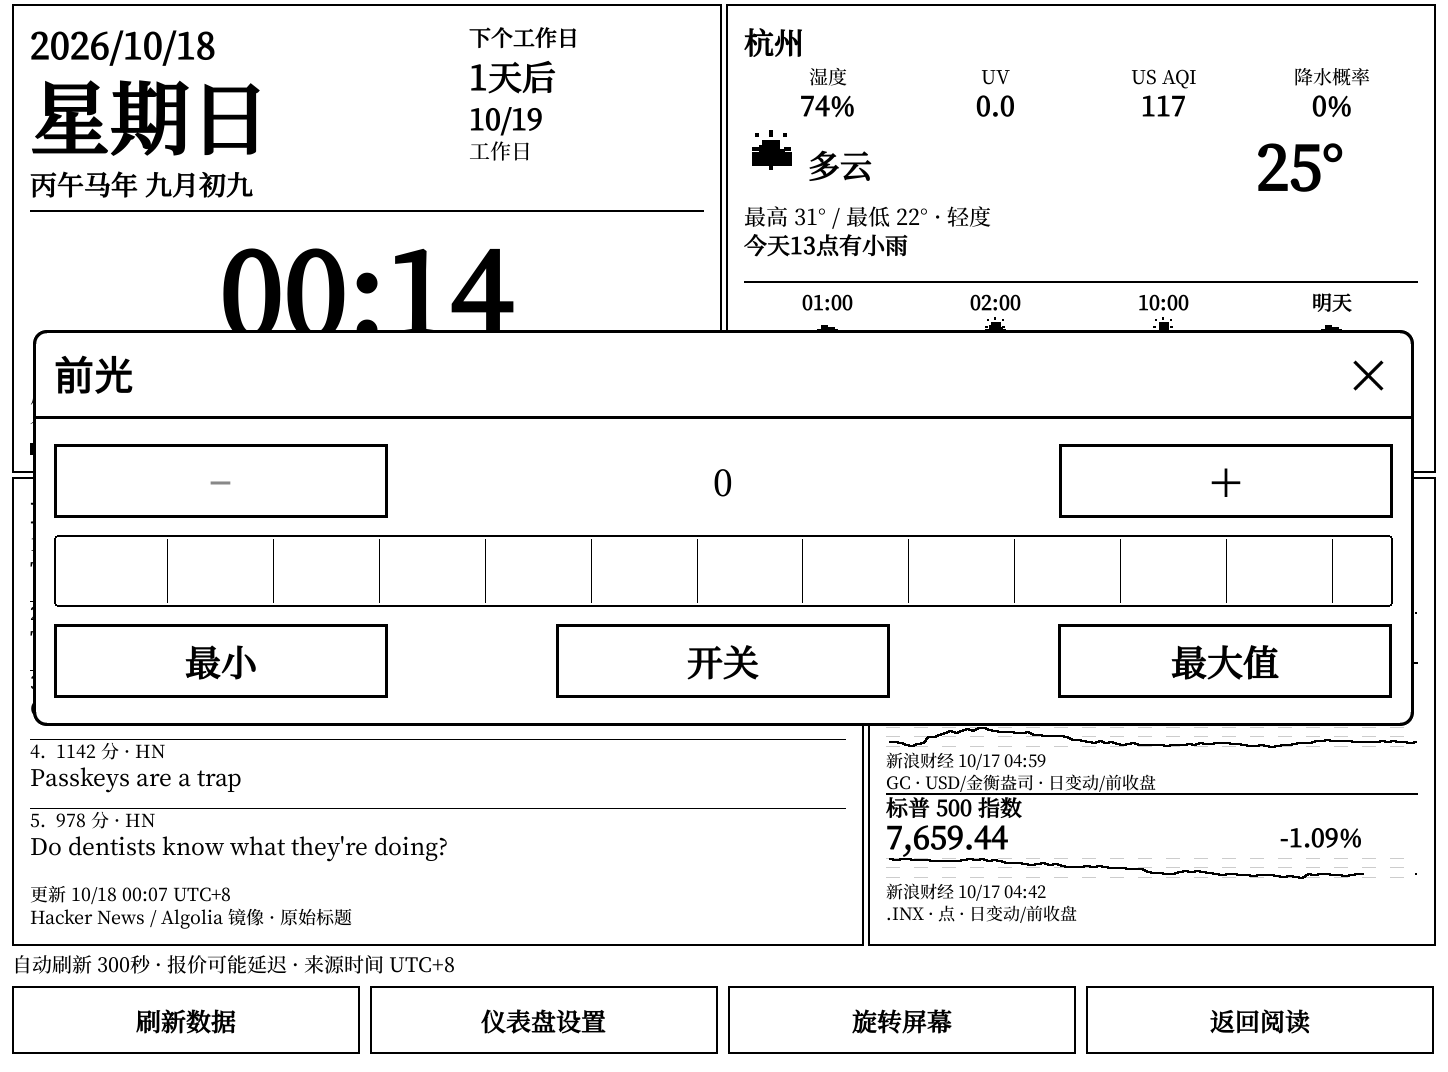
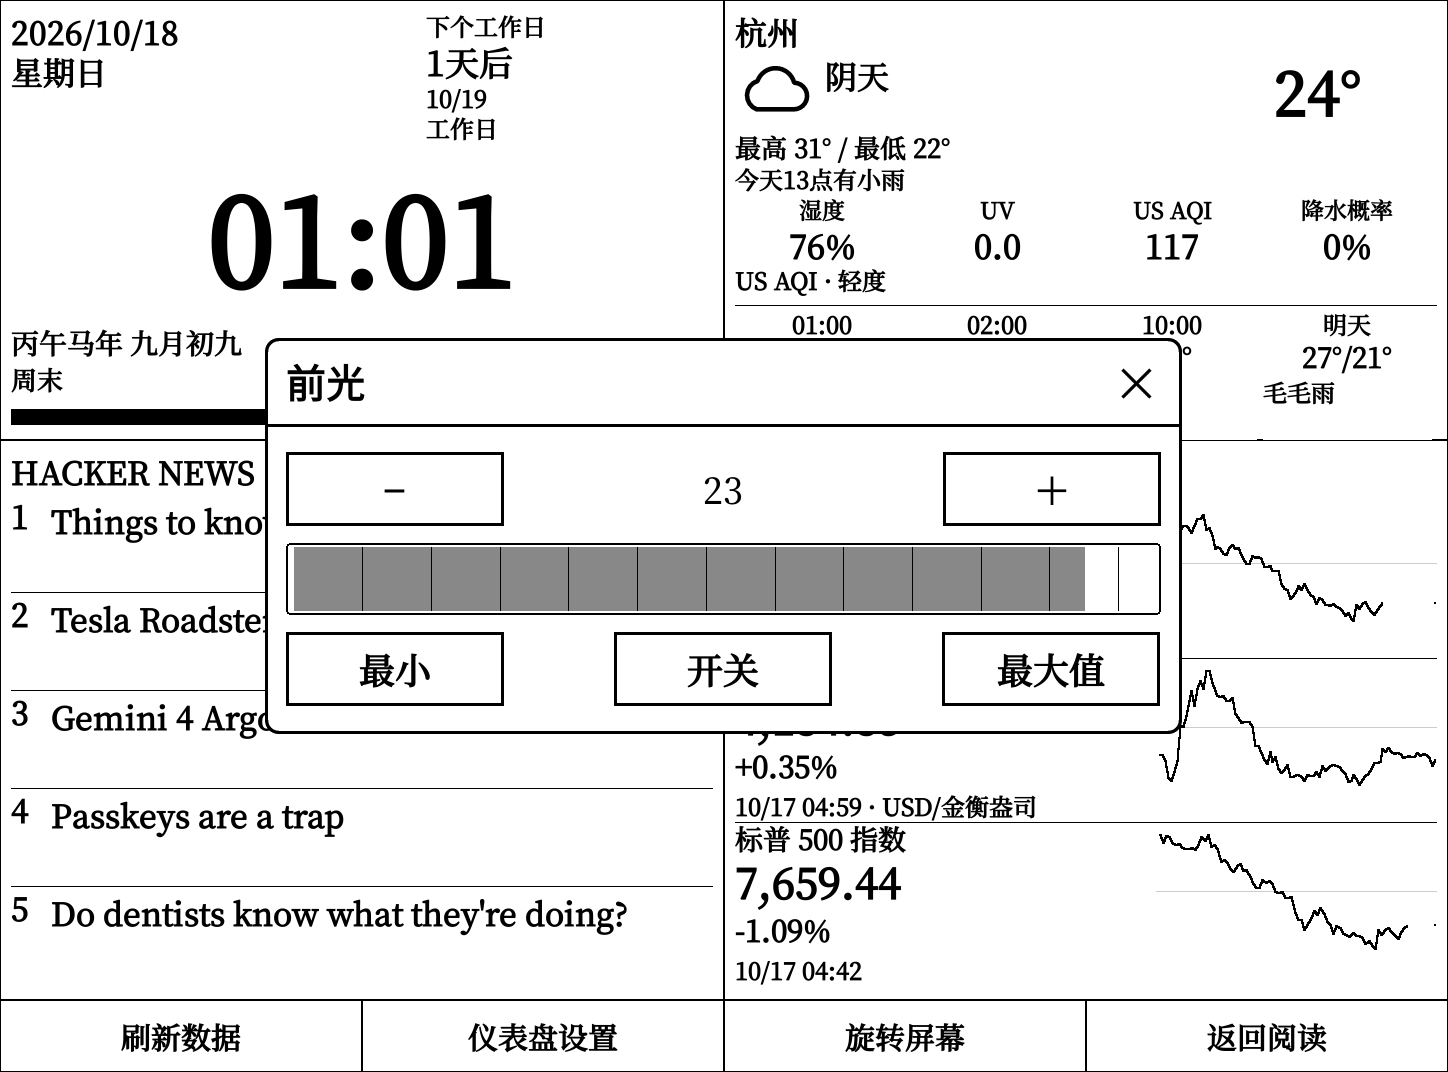
Improve dashboard readability and adaptive layouts

diff --git a/README-en.md b/README-en.md
@@ -9,13 +9,13 @@ A native Kindle dashboard inside KOReader. KOReader Lua widgets render the inter
 ## Panels and sources
 
 - **Calendar and clock**: Gregorian date, weekday, Chinese lunar date (data covers 1900–2100), sexagenary year and zodiac, year progress, Chinese working/rest days, and a countdown to the next change. The clock and calendar use fixed UTC+8 and update locally every minute without network access.
-- **Weather and air quality**: Singapore by default, with Chinese or English city search. Displays temperature, conditions, humidity, UV, precipitation probability, daily high/low, rain/snow timing hints, three upcoming forecast slots, and tomorrow’s forecast. Weather comes from [Open-Meteo](https://open-meteo.com/); air quality uses its CAMS data and **US AQI**, rather than China’s AQI scale. Forecast slots and “today/tomorrow” follow the selected city’s timezone; source timestamps are displayed in UTC+8. The third forecast slot takes the default 10:00/18:00 work hours into account.
+- **Weather and air quality**: Singapore by default, with Chinese or English city search. Displays temperature, conditions, humidity, UV, precipitation probability, daily high/low, rain/snow timing hints, three upcoming forecast slots, and tomorrow’s forecast. Weather icons use bundled black-and-white SVGs. Weather comes from [Open-Meteo](https://open-meteo.com/); air quality uses its CAMS data and **US AQI**, rather than China’s AQI scale. Forecast slots and “today/tomorrow” follow the selected city’s timezone. The third forecast slot takes the default 10:00/18:00 work hours into account.
 - **Markets**: Sina Finance supplies the NASDAQ Composite `gb_ixic`, New York gold CFD `hf_GC`, and S&P 500 `gb_inx`. Gold is quoted in USD per troy ounce; **this source identifies the instrument as a CFD, rather than COMEX front-month futures or spot gold**. Each row shows the quote, daily change against the source’s previous close, and an intraday trend. US index history uses five-minute data; gold history uses minute data. Missing values are not interpolated, and longer gaps remain disconnected.
-- **Hacker News**: Tries the [official Firebase API](https://github.com/HackerNews/API) top/best lists first. Unavailable or invalid lists, or incomplete story retrieval, trigger the [Algolia mirror](https://hn.algolia.com/api). The mirror takes ten candidates each from front_page and high-scoring stories from the last seven days, applying the same popularity, age, comment, title-keyword, deduplication, and trending-story rules to select up to five stories. Its high-score list is not guaranteed to match Firebase best ordering. The panel identifies it as `Hacker News / Algolia 镜像`. Original titles, scores, timestamps, and URLs are preserved, without translation or AI summaries. If both sources fail, previous headlines and their original fetch time are retained. An optional custom HTTPS JSON news feed is supported.
+- **Hacker News**: Tries the [official Firebase API](https://github.com/HackerNews/API) top/best lists first. Unavailable or invalid lists, or incomplete story retrieval, trigger the [Algolia mirror](https://hn.algolia.com/api). The mirror takes ten candidates each from front_page and high-scoring stories from the last seven days, applying the same popularity, age, comment, title-keyword sorting and deduplication rules to select up to five stories. Its high-score list is not guaranteed to match Firebase best ordering. The panel displays numbered original headlines; sources, scores, timestamps, and URLs remain in the cache. No translation or AI summaries are provided. If both sources fail, previous headlines and their original fetch time are retained. An optional custom HTTPS JSON news feed is supported.
 
-[Sina Finance](https://finance.sina.com.cn/) quotes and history are fetched directly by the Kindle, without a proxy. Quotes may be delayed and may remain at the previous trading session during market closures. US index history timestamps are interpreted in New York time, and gold history timestamps in UTC+8; the interface displays them in UTC+8. Markets and weather show source observation times; news shows its fetch time. A successful request does not mean the underlying observation is new. Missing values or timestamps remain empty/`--`, rather than being replaced with sample data.
+[Sina Finance](https://finance.sina.com.cn/) quotes and history are fetched directly by the Kindle, without a proxy. Quotes may be delayed and may remain at the previous trading session during market closures. US index history timestamps are interpreted in New York time, and gold history timestamps in UTC+8. The interface retains quote timestamps in UTC+8 and stale/error indicators; weather observation times and news fetch times remain in the cache. A successful request does not mean the underlying observation is new. Missing values or timestamps remain empty/`--`, rather than being replaced with sample data.
 
-Chinese holiday arrangements for 2026 are bundled from [NateScarlet/holiday-cn](https://github.com/NateScarlet/holiday-cn). When the current year is not cached, the plugin attempts to download that year’s arrangements, retrying at most daily after failure. Without matching annual data, it uses weekend rules and marks the result “节假日估算” (estimated holidays). Statutory holidays and compensatory working days are unavailable in that case; countdowns crossing into another year may also involve estimates.
+Chinese holiday arrangements for 2026 are bundled from [NateScarlet/holiday-cn](https://github.com/NateScarlet/holiday-cn). When the current year is not cached, the plugin attempts to download that year’s arrangements, retrying at most daily after failure. Without matching annual data, it uses weekend rules and marks the result “估算” (estimated). Statutory holidays and compensatory working days are unavailable in that case; countdowns crossing into another year may also involve estimates.
 
 ## Installation
 
@@ -43,6 +43,8 @@ The script connects as `root`, checks `/mnt/us/koreader`, copies the plugin and 
 ## Usage and settings
 
 In KOReader, open **More tools > 阅读仪表盘**. When Moon is installed and its public `desktop.tabs` extension point is available, its desktop also offers an **仪表盘** tab. From KUAL, **Kindle-Dashboard > Open Dashboard** launches KOReader and opens the dashboard automatically. If KOReader is already running, use its internal menu.
+
+The four panels meet without gaps, separated by thin lines, with larger, bold text for the main content. Portrait and landscape layouts adapt to the screen, as do the settings and frontlight dialogs. KOReader renders the weather icons natively without relying on system fonts.
 
 The bottom buttons are **刷新数据** (refresh), **仪表盘设置** (dashboard settings), **旋转屏幕** (rotate), and **返回阅读** (return to reading). Settings include display retention, frontlight brightness, weather city, and news feed. Try an English city name if Chinese search returns no results. Custom news URLs must use HTTPS; leave the field empty to restore Hacker News. The response is a JSON array, for example:
 
@@ -75,7 +77,7 @@ The refresh interval and three market symbols are currently defined in the plugi
 
 After installation, confirm the menu entry appears, then check all four panels, city changes, manual and automatic refresh, cached data after disconnecting Wi-Fi, portrait/landscape rotation, and orientation restoration when returning to reading. With Moon, also check the desktop tab. Read source timestamps and stale indicators to distinguish cached observations from current data.
 
-Device checks include searching for “杭州”, selecting Hangzhou in Zhejiang, and tapping settings and return while a refresh is active. Settings dialogs appear above the dashboard. Cancelled refreshes repaint widgets before replaying button taps, preventing lost taps and touch-feedback errors. Display retention checks cover preference persistence, repeated open/close, restoration of previous keep-awake states, and manual sleep and resume. Frontlight checks cover the slider, plus/minus buttons, and switch, with actual hardware brightness readings.
+Device checks include searching for “杭州”, selecting Hangzhou in Zhejiang, and tapping settings and return while a refresh is active. Settings dialogs appear above the dashboard. Cancelled refreshes repaint widgets before replaying button taps, preventing lost taps and touch-feedback errors. Display retention checks cover preference persistence, repeated open/close, restoration of previous keep-awake states, and manual sleep and resume. Frontlight checks cover the slider, plus/minus buttons, and switch, with actual hardware brightness readings. Portrait and landscape checks cover panel alignment without gaps, larger text, and settings/frontlight dialogs staying within the screen. All seven weather icons were checked through native SVG rendering on the Kindle.
 
 KUAL launch output is written to `/tmp/kindle-dashboard-launch.log`. For plugin loading or runtime errors, inspect KOReader’s `crash.log`. Public API availability, rate limits, and regional connectivity can affect refreshes.
 

diff --git a/README.md b/README.md
@@ -9,13 +9,13 @@
 ## 面板与数据
 
 - **日历与时钟**：公历、星期、农历（数据范围 1900—2100 年）、干支生肖、年度进度、中国工作日/休息日及下一次切换倒计时。时钟与日历使用固定 UTC+8，每分钟本地更新，不依赖网络。
-- **天气与空气质量**：默认新加坡，可搜索中英文城市。显示温度、天气、湿度、UV、降水概率、最高/最低温、雨雪时段提示、三个后续时段预报和明日预报。数据来自 [Open-Meteo](https://open-meteo.com/)，空气质量来自其 CAMS 数据，面板使用 **US AQI**，不是中国 AQI。预报时段及“今天/明天”按所选城市时区计算；来源时间显示为 UTC+8。第三个预报时段会结合默认 10:00/18:00 工作时段选择。
+- **天气与空气质量**：默认新加坡，可搜索中英文城市。显示温度、天气、湿度、UV、降水概率、最高/最低温、雨雪时段提示、三个后续时段预报和明日预报。天气图标使用随包提供的黑白 SVG。数据来自 [Open-Meteo](https://open-meteo.com/)，空气质量来自其 CAMS 数据，面板使用 **US AQI**，不是中国 AQI。预报时段及“今天/明天”按所选城市时区计算。第三个预报时段会结合默认 10:00/18:00 工作时段选择。
 - **行情**：通过新浪财经获取纳斯达克综合指数 `gb_ixic`、纽约黄金 CFD `hf_GC`、标普 500 指数 `gb_inx`。黄金单位为美元/金衡盎司，**该数据源标的是 CFD，并非 COMEX 近月期货或现货黄金**。展示报价、相对来源前收盘价的日变动及分时走势。美股指数走势来自五分钟数据，黄金走势来自分钟数据；缺失数据不补值，较长间隔保留为空缺。
-- **Hacker News**：优先从 [官方 Firebase API](https://github.com/HackerNews/API) 的 top/best 列表获取新闻；列表不可用、无效或条目获取不完整时，改用 [Algolia 镜像](https://hn.algolia.com/api)。镜像分别取 front_page 和最近七天高分故事的前十个候选，沿用热度、时间、评论和标题关键词排序、去重及热点突出规则，最多展示五条。镜像的高分故事列表不保证与 Firebase best 排序一致，面板会标注 `Hacker News / Algolia 镜像`。保留原始标题、分数、时间和链接，不提供翻译或 AI 摘要；两种来源均失败时保留旧新闻及原抓取时间。也可设置自定义 HTTPS JSON 新闻源。
+- **Hacker News**：优先从 [官方 Firebase API](https://github.com/HackerNews/API) 的 top/best 列表获取新闻；列表不可用、无效或条目获取不完整时，改用 [Algolia 镜像](https://hn.algolia.com/api)。镜像分别取 front_page 和最近七天高分故事的前十个候选，沿用热度、时间、评论和标题关键词排序及去重规则，最多展示五条。镜像的高分故事列表不保证与 Firebase best 排序一致。面板显示编号与原始标题，来源、分数、时间和链接保留在缓存中，不提供翻译或 AI 摘要；两种来源均失败时保留旧新闻及原抓取时间。也可设置自定义 HTTPS JSON 新闻源。
 
-行情来源为[新浪财经](https://finance.sina.com.cn/)，Kindle 直接获取报价和走势，无需代理。报价可能延迟，休市时可能仍显示上一交易时段的数据。美股走势来源时间按纽约时区解析，黄金分时来源时间按 UTC+8 解析，界面统一显示 UTC+8。行情和天气标注来源观测时间，新闻标注抓取时间；联网成功不代表数据刚刚产生。缺少数值或时间时显示空缺/`--`，不会用示例值填充。
+行情来源为[新浪财经](https://finance.sina.com.cn/)，Kindle 直接获取报价和走势，无需代理。报价可能延迟，休市时可能仍显示上一交易时段的数据。美股走势来源时间按纽约时区解析，黄金分时来源时间按 UTC+8 解析。界面保留行情报价时间（UTC+8）及旧数据/失败标记；天气观测时间和新闻抓取时间保存在缓存中。联网成功不代表数据刚刚产生。缺少数值或时间时显示空缺/`--`，不会用示例值填充。
 
-中国节假日随包提供 2026 年安排，数据来自 [NateScarlet/holiday-cn](https://github.com/NateScarlet/holiday-cn)。切换到未缓存年份时会尝试下载当年安排，失败后至多每天重试一次。未取得对应年度数据时，仅以周末规则估算，并标记“节假日估算”；调休与法定假期不能据此保证准确，跨年的倒计时也可能涉及估算。
+中国节假日随包提供 2026 年安排，数据来自 [NateScarlet/holiday-cn](https://github.com/NateScarlet/holiday-cn)。切换到未缓存年份时会尝试下载当年安排，失败后至多每天重试一次。未取得对应年度数据时，仅以周末规则估算，并标记“估算”；调休与法定假期不能据此保证准确，跨年的倒计时也可能涉及估算。
 
 ## 安装
 
@@ -43,6 +43,8 @@ sh scripts/deploy.sh KINDLE_IP 2222 ~/.ssh/id_ed25519
 ## 使用与设置
 
 在 KOReader 中打开 **More tools（更多工具） > 阅读仪表盘**。安装 Moon 且其公开 `desktop.tabs` 扩展点可用时，桌面还会显示 **仪表盘** 标签。也可从 KUAL 的 **Kindle-Dashboard > Open Dashboard** 启动 KOReader 并自动打开仪表盘；若 KOReader 已运行，请使用其内部菜单。
+
+四个面板紧密相接，以细线分隔；主要文字放大加粗。横竖屏均自适应，设置和前光弹窗按屏幕尺寸调整。天气图标由 KOReader 原生渲染，不依赖系统字体。
 
 底部按钮提供 **刷新数据**、**仪表盘设置**、**旋转屏幕** 和 **返回阅读**。设置对话框提供保持显示、前光亮度、天气城市和新闻源。城市搜索无结果时可尝试英文名称。自定义新闻地址必须为 HTTPS，留空恢复 Hacker News，响应为 JSON 数组，例如：
 
@@ -75,7 +77,7 @@ sh scripts/deploy.sh KINDLE_IP 2222 ~/.ssh/id_ed25519
 
 安装后确认菜单入口可见，再检查四个面板、城市切换、手动与自动刷新、断网保留旧数据、横竖屏切换及返回阅读后的方向恢复。使用 Moon 时也应检查桌面标签入口。查看来源时间和旧数据标记，避免把缓存误认为实时数据。
 
-真机验证覆盖了中文搜索“杭州”、选择“杭州 · 浙江 · 中国”，以及刷新期间点击“仪表盘设置”和“返回阅读”。设置弹窗显示在仪表盘上方；取消刷新后先完成控件重绘，再处理按钮点击，避免点击丢失或触摸反馈错误。保持显示验证包括开关保存、重复打开/关闭、恢复原来的保持唤醒状态，以及电源键休眠和唤醒恢复；前光验证包括滑块、加减和开关，并核对实际硬件亮度。
+真机验证覆盖了中文搜索“杭州”、选择“杭州 · 浙江 · 中国”，以及刷新期间点击“仪表盘设置”和“返回阅读”。设置弹窗显示在仪表盘上方；取消刷新后先完成控件重绘，再处理按钮点击，避免点击丢失或触摸反馈错误。保持显示验证包括开关保存、重复打开/关闭、恢复原来的保持唤醒状态，以及电源键休眠和唤醒恢复；前光验证包括滑块、加减和开关，并核对实际硬件亮度。横竖屏验证包括四个面板无空隙对齐、放大后的文字，以及设置与前光弹窗不越界；七种天气图标均通过真机原生 SVG 渲染检查。
 
 KUAL 启动日志位于 `/tmp/kindle-dashboard-launch.log`；插件加载或运行问题可查看 KOReader 的 `crash.log`。公共数据接口的可用性、限流和地区网络访问会影响刷新结果。
 
